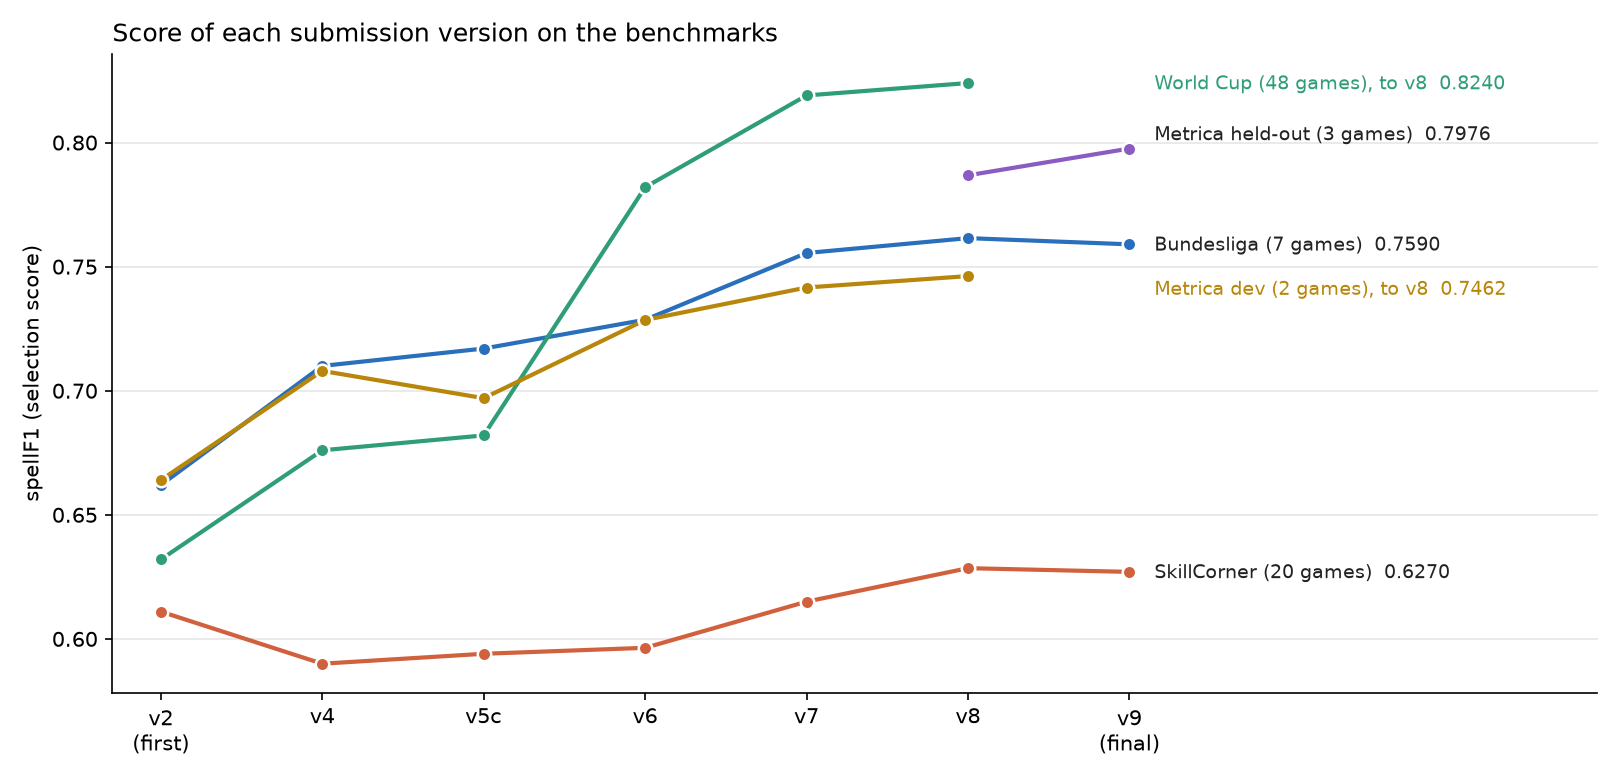
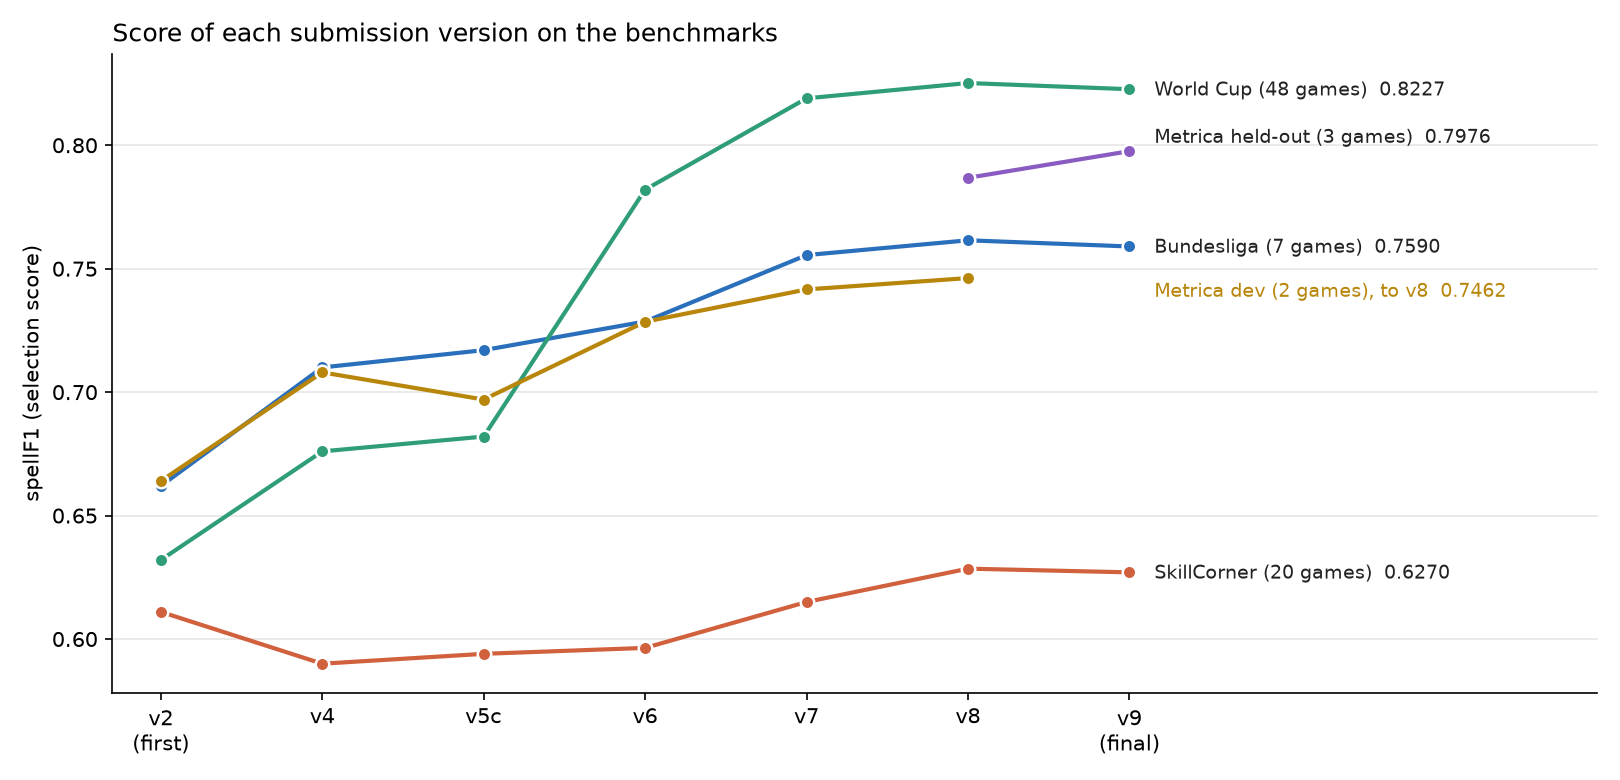
Write-up: World Cup scores for v8 and v9 with fold models of the fine-tuned MS-TCNs (v9 - v8: -0.0025 +- 0.0008, 16/48)
Claude-Session: https://claude.ai/code/session_012XhwG6fGzr3jZMWqF9JfwF

diff --git a/TECHNICAL.md b/TECHNICAL.md
@@ -145,7 +145,7 @@ We first pooled the Metrica games into training at their natural share, which is
 
 Therefore, the amount of Metrica data in the mix mattered. Mixing it 1:1 for a short fine-tune moved the MS-TCN about ten times further on held-out Metrica games than pooling did (+0.0557 against +0.0059 alone). Starting that fine-tune from the shipped model, with SkillCorner kept in the mix, held the SkillCorner score. Alone, the version 9 MS-TCN gains +0.0557 on held-out Metrica games (better on 3 of 3), with −0.0069 ± 0.0030 on the Bundesliga and −0.0014 ± 0.0020 on SkillCorner.
 
-We chose version 9 because we expect the hidden truth to follow Metrica's way of labelling. It accepts a small loss on 27 games labelled by other providers (7 Bundesliga and 20 SkillCorner) for a gain on 3 games labelled by Metrica's rules. The reader should weigh three things. The rule that admitted it gives Metrica more weight than our earlier rules did, and we wrote that rule after seeing the first Metrica results. Version 9 was scored after its direct precursor (the second row) had failed on SkillCorner. Three games is thin evidence. The version 9 ensemble also predicts about 2% fewer possessions on the Metrica games than version 8, which already predicted fewer than Metrica's own count.
+We chose version 9 because we expect the hidden truth to follow Metrica's way of labelling. It accepts a small loss on games labelled by other providers (7 Bundesliga and 20 SkillCorner in the rule, and 48 World Cup games scored afterwards, section 3f) for a gain on 3 games labelled by Metrica's rules. The reader should weigh three things. The rule that admitted it gives Metrica more weight than our earlier rules did, and we wrote that rule after seeing the first Metrica results. Version 9 was scored after its direct precursor (the second row) had failed on SkillCorner. Three games is thin evidence. The version 9 ensemble also predicts about 2% fewer possessions on the Metrica games than version 8, which already predicted fewer than Metrica's own count.
 
 ### 3f. Comparison of Versions
 
@@ -155,8 +155,8 @@ Each cell is spellF1 / macroF1.
 
 | Version | What it is | Bundesliga (7) | SkillCorner (20) | World Cup (48) | Metrica (2) |
 |---|---|---|---|---|---|
-| **9 (final)** | Version 8 with the MS-TCN also fine-tuned on Metrica | 0.7590 / 0.939 | 0.6270 / 0.900 | not scored | see below |
-| 8 | Version 7 with the fine-tuned MS-TCN and the 19.3M pointer | **0.7615 / 0.941** | **0.6285 / 0.901** | **0.824 / 0.950** | **0.7462 / 0.834** |
+| **9 (final)** | Version 8 with the MS-TCN also fine-tuned on Metrica | 0.7590 / 0.939 | 0.6270 / 0.900 | 0.8227 / 0.950 | see below |
+| 8 | Version 7 with the fine-tuned MS-TCN and the 19.3M pointer | **0.7615 / 0.941** | **0.6285 / 0.901** | **0.8252 / 0.951** | **0.7462 / 0.834** |
 | 7 | MBR decoding of TCN, MS-TCN, radar and pointer | 0.7555 / 0.940 | 0.6150 / 0.896 | 0.819 / 0.950 | 0.7416 / 0.834 |
 | 6 | Majority vote of three models, trained on Bundesliga and World Cup | 0.7286 / 0.933 | 0.5964 / 0.892 | 0.782 / 0.943 | 0.7285 / 0.831 |
 | 5c | The same vote, trained on Bundesliga only, after the data fix | 0.717 / 0.930 | 0.594 / 0.889 | 0.682 / 0.907 | 0.697 / 0.825 |
@@ -170,9 +170,11 @@ Version 8 has the best score on each of these four benchmarks. Version 9 is with
 | Version 9 | 0.7976 | 0.847 |
 | Version 8 | 0.7868 | 0.845 |
 
-Those Metrica figures are leave-one-game-out over all three sample games with a stricter label variant, so they are not comparable with the Metrica column above, whose two games are training data for version 9. Version 9 has no World Cup figure because that needs World Cup fold models of its MS-TCN, which we did not train.
+Those Metrica figures are leave-one-game-out over all three sample games with a stricter label variant, so they are not comparable with the Metrica column above, whose two games are training data for version 9.
 
-Against version 7, version 8 gains +0.0060 ± 0.0020 on the Bundesliga (17/21), +0.0135 ± 0.0019 on SkillCorner (17/20) and +0.0046 on Metrica. The World Cup figures for versions 7 and 8 are approximate, because they were computed without the TCN's test-time averaging, and for version 8 also without the SkillCorner fine-tune of the MS-TCN.
+After choosing version 9 we also scored it on the 48 World Cup games, which needed World Cup fold versions of both MS-TCN fine-tunes. There version 9 is −0.0025 ± 0.0008 against version 8 (better on 16 of 48 games), and it is lower in all four folds. This is the same size of loss as on the Bundesliga, on a larger benchmark.
+
+Against version 7, version 8 gains +0.0060 ± 0.0020 on the Bundesliga (17/21), +0.0135 ± 0.0019 on SkillCorner (17/20) and +0.0046 on Metrica. The World Cup figures for versions 7, 8 and 9 were computed without the TCN's test-time averaging, and the fold models of the fine-tuned MS-TCNs for versions 8 and 9 were trained on different hardware from the shipped ones.
 
 Version 7 was also confirmed once on 13 FOOTPASS games that no model had been scored on before: 0.8046 against 0.7744 for version 6, a gain of +0.0302 ± 0.0045 that held in all 13 games.
 
